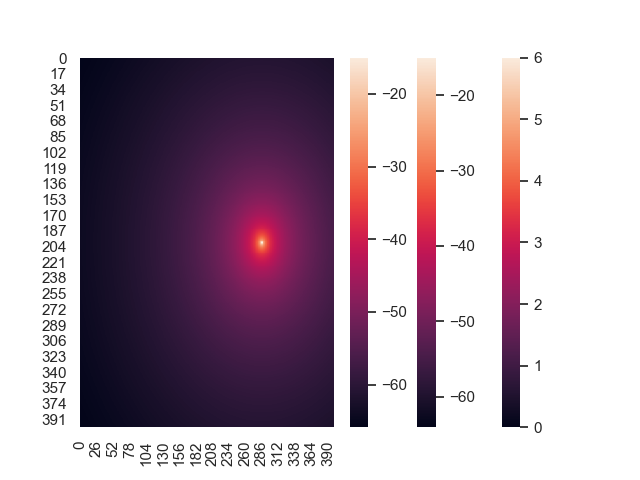
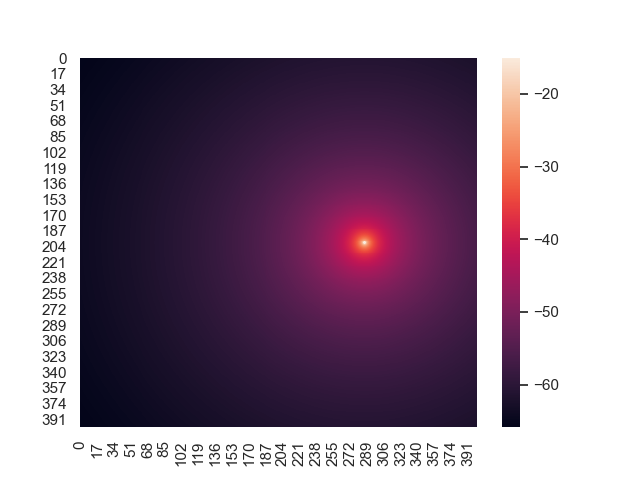
a desenvolver mapa de cir

diff --git a/funcoes.py b/funcoes.py
@@ -65,6 +65,39 @@ def cria_mapa_cobertura(mapa, config):
     return mapa_cobertura
 
 
+def cria_mapa_cir(mapa, config):
+    mapa_cir = [[{} for _ in range(config['n_pixels_y'])] for _ in range(config['n_pixels_x'])]
+
+    cor = {}
+    for i, item in enumerate(list(config['celulas'])):
+        cor[item] = i
+
+    for y in range(0, config['n_pixels_y']):
+        for x in range(0, config['n_pixels_x']):
+            p = mapa[x][y]
+            mapa_cir[x][y] = cir(p)
+
+    return mapa_cir
+
+
+def cir(p):
+    """
+    calcula CIR para dicionario de prx de celulas num ponto. considera C o melhor dos sinais.
+    """
+    try:
+        c = max(list(p.items()), key=lambda e: e[1])
+
+        i = 0
+        for cell,prx in p.items():
+            if prx > 0:
+                i += 10*math.log10(prx)
+
+        i -= 10*math.log10(c[1])
+    except:
+        print(f"Erro: {c[1]}")
+        
+    return 10**(c/i/10)
+
 def extrai_mapa(mapa, celula):
     mapa_celula = []
     for linha in mapa:

diff --git a/main.py b/main.py
@@ -11,12 +11,18 @@ def main(nome):
     mapa_cobertura_celulas = cria_mapa_cobertura(mapa, config)
     desenha_mapa(mapa_cobertura_celulas, nome, 'all')
 
+    """
+    mapa_cir = cria_mapa_cir(mapa, config)
+    desenha_mapa(mapa_cobertura_celulas, nome, 'cir')
+    """
+    
     for celula in config['celulas'].keys():
         mapa_celula = extrai_mapa(mapa, celula)
         desenha_mapa(mapa_celula, nome, celula)
 
 
 if __name__ == '__main__':
-    main('config-400x400-r50-30cells.json')
+    main('400x400-r50-7cells.json')
+#    main('config-400x400-r50-30cells.json')
 
 # See PyCharm help at https://www.jetbrains.com/help/pycharm/

diff --git a/json_maker.py b/json_maker.py
@@ -59,9 +59,11 @@ def cria_planeamento_hexagonal(n_pixels_x, n_pixels_y, R: 'raio em pixels', ptx,
     with open(nome_ficheiro, 'w') as f:
         json.dump(config, f, indent=4)
 
+    return f"config-{n_pixels_x}x{n_pixels_y}-r{R}-{n_celulas}cells.json"
+
 
 def cria_input_cluster_7(n_pixels_x, n_pixels_y, R: 'raio', ptx, frequencia: 'GHz', pixel_size):
-     """
+    """
     Cria um cluster de 7 células centrado numa grelha, inserindo um identificador para cada célula
     :param n_pixels_x:
     :param n_pixels_y:
